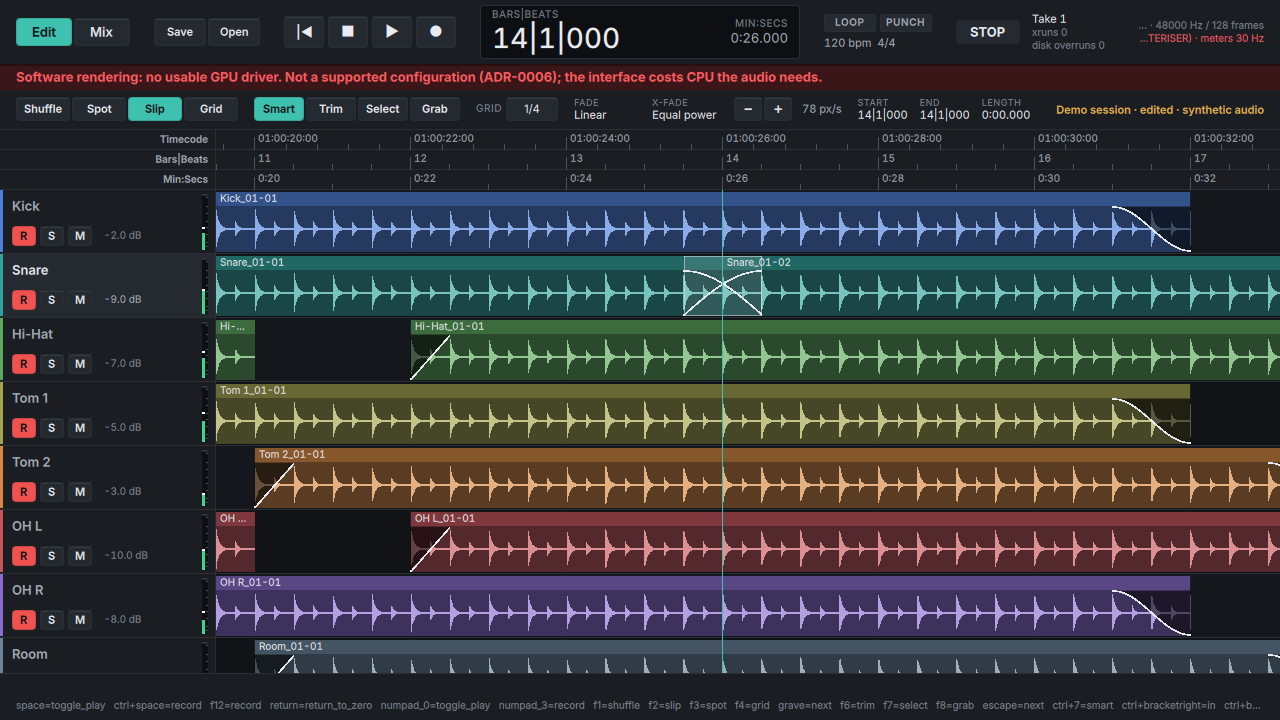
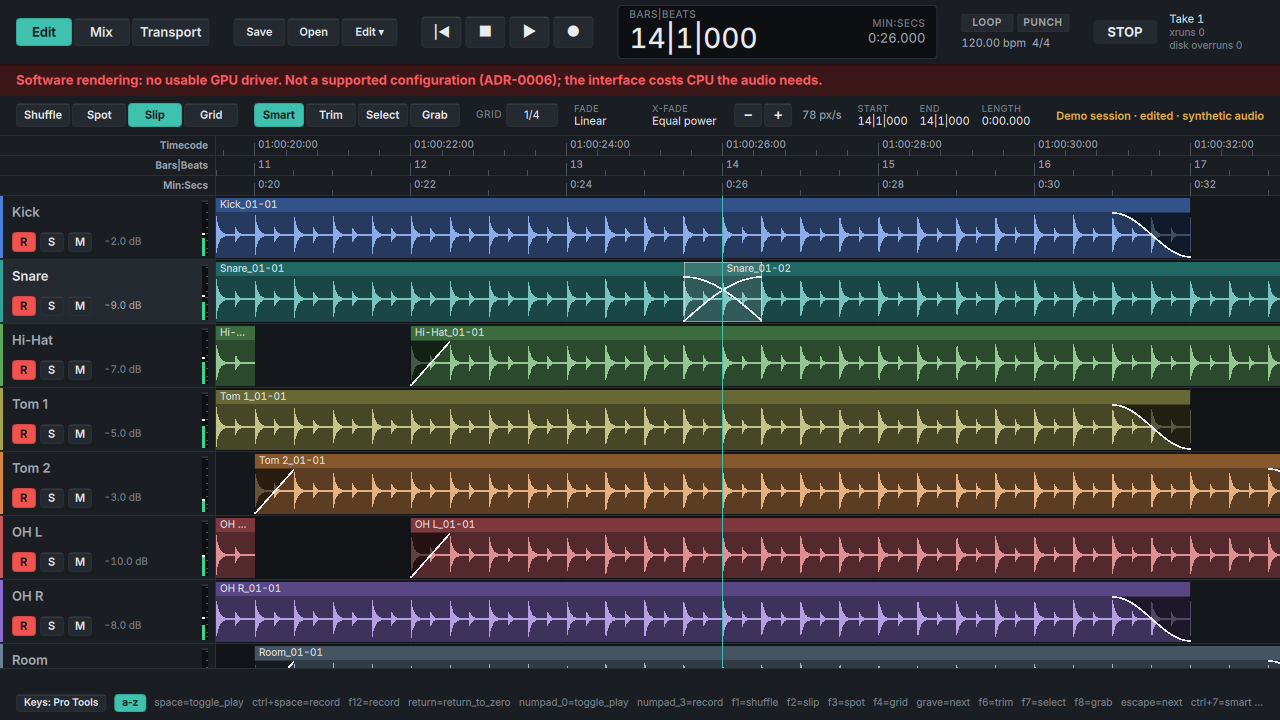
A crossfade drops the fades at its cut, as Pro Tools does (Track 3 item 1)
fade_selection sends SetFade 0 for the left region's fade-out and the right
region's fade-in, then the SetCrossfade, as one "Crossfade" compound: one
update and one undo step that brings them back. Kept under the crossfade,
those fades were invisible yet came back on Clear and took room from a fade
at the regions' other ends. Hidden fades in documents from elsewhere are
still counted and named.

ui_edit test_fades_against_crossfades fails without the change.

Changed region(s): [[0.0, 0.0, 1.0, 1.0]]

diff --git a/ui/qt/tests/test_edit.cpp b/ui/qt/tests/test_edit.cpp
@@ -921,6 +921,56 @@ int test_fades_against_crossfades() {
         OK(region(doc.snapshot(), 10)->fade_in.length == kBar && valid(doc.snapshot()));
     }
 
+    // --- a crossfade made here drops the fades at its cut, as Pro Tools
+    // does: A's 1-bar fade-out and B's 1-beat fade-in go with the Pre
+    // crossfade, in one compound and one undo step that brings them back ---
+    {
+        ModelDocument doc(two_tracks());
+        const Id pl = playlist_of(doc.snapshot(), 0);
+        OK(doc.submit(MoveRegion{pl, 11, 3 * kBar, kNoId}, why));
+        OK(doc.submit(SetFade{pl, 10, FadeEnd::Out, {kBar, FadeShape::Linear}}, why));
+        OK(doc.submit(SetFade{pl, 11, FadeEnd::In, {kBeat, FadeShape::Linear}}, why));
+        EditController c(doc);
+        c.set_viewport(1000, 200);
+        const double th = c.view().track_height;
+        c.set_tool(Tool::Select);
+        OK(c.press(c.view().x_of(3 * kBar - kBeat), th / 2, why) &&
+           c.release(c.view().x_of(3 * kBar), th / 2, why));
+        const uint64_t rev = doc.snapshot().revision;
+        const std::size_t depth = doc.history().undo_depth();
+        OK(c.fade_selection(why));
+        OK(doc.snapshot().revision == rev + 1 && doc.history().undo_depth() == depth + 1);
+        OK(doc.undo_label() == "Crossfade");
+        OK(active_playlist(doc.snapshot().edit->tracks[0].get())->crossfades.size() == 1);
+        OK(region(doc.snapshot(), 10)->fade_out.length == 0);
+        OK(region(doc.snapshot(), 11)->fade_in.length == 0);
+        OK(valid(doc.snapshot()));
+        // Nothing waits under it: A's fade-in may now take the whole region
+        // up to the crossfade, which the hidden 1-bar fade-out refused.
+        c.set_insertion(3 * kBar - kBeat);
+        OK(c.fade_to_start(why));
+        OK(region(doc.snapshot(), 10)->fade_in.length == 2 * kBar - kBeat);
+        OK(c.undo(why));
+        // Clear brings back nothing.
+        OK(c.press(c.view().x_of(3 * kBar - kBeat), th / 2, why) &&
+           c.release(c.view().x_of(3 * kBar), th / 2, why));
+        OK(c.clear(why));
+        OK(active_playlist(doc.snapshot().edit->tracks[0].get())->crossfades.empty());
+        OK(region(doc.snapshot(), 10)->fade_out.length == 0);
+        OK(region(doc.snapshot(), 11)->fade_in.length == 0);
+        // Undo of the clear, then of the crossfade: both fades come back.
+        OK(c.undo(why) && c.undo(why));
+        OK(active_playlist(doc.snapshot().edit->tracks[0].get())->crossfades.empty());
+        OK(region(doc.snapshot(), 10)->fade_out.length == kBar);
+        OK(region(doc.snapshot(), 11)->fade_in.length == kBeat);
+        // With no fade at the cut it is still the one SetCrossfade.
+        OK(doc.submit(SetFade{pl, 10, FadeEnd::Out, Fade{}}, why));
+        OK(doc.submit(SetFade{pl, 11, FadeEnd::In, Fade{}}, why));
+        OK(c.press(c.view().x_of(3 * kBar - kBeat), th / 2, why) &&
+           c.release(c.view().x_of(3 * kBar), th / 2, why));
+        OK(c.fade_selection(why) && doc.undo_label() == "SetCrossfade");
+    }
+
     // --- the overlap: a crossfade into the region's own fade at the other end ---
     {
         ModelDocument doc(two_tracks());

diff --git a/ui/qt/src/edit_controller.cpp b/ui/qt/src/edit_controller.cpp
@@ -1049,7 +1049,19 @@ bool EditController::fade_selection(std::string& why) {
             }
             return false;
         }
-        if (!submit(SetCrossfade{p.id, x}, why)) return false;
+        // The fades at the cut go with the crossfade, as in Pro Tools: kept
+        // under it, nobody can see them, yet they come back on Clear and
+        // still take room from a fade at the regions' other ends. One
+        // compound, so the gesture stays one undo step that brings them back.
+        std::vector<Member> members;
+        if (l.fade_out.length > 0) members.push_back(SetFade{p.id, l.id, FadeEnd::Out, Fade{}});
+        if (r.fade_in.length > 0) members.push_back(SetFade{p.id, r.id, FadeEnd::In, Fade{}});
+        if (members.empty()) {
+            if (!submit(SetCrossfade{p.id, x}, why)) return false;
+        } else {
+            members.push_back(SetCrossfade{p.id, x});
+            if (!submit_compound(std::move(members), "Crossfade", "crossfaded", why)) return false;
+        }
         sel_.region = kNoId;
         sel_.start = sel_.insertion = cut - before;
         sel_.end = cut + after;
@@ -1103,8 +1115,9 @@ bool EditController::clear_fade_at_selection(bool& done, std::string& why) {
         crossfade_extent(x, before, after);
         if (sel_.start == r->position - before && sel_.end == r->position + after) {
             done = true;
-            // Removing it brings back the fades each region keeps under it.
-            // One that would run into what is at its region's other end
+            // Removing it brings back any fade a region keeps under it: none
+            // for a crossfade made here, which drops them, but a document
+            // from elsewhere or an older build can have them. One that would run into what is at its region's other end
             // comes back shortened to meet it: the model does that
             // (RemoveCrossfade, PR #69), because the operator cannot see
             // or edit that fade while the other end is crossfaded.

diff --git a/planning/BACKLOG.md b/planning/BACKLOG.md
@@ -181,11 +181,12 @@ Against `common/model` and `FakeEngine` now; wired to M4 when it lands.
        zoom; fades; clip gain; markers.
        - [x] Fades and crossfades (`feature/ui-fades`): keys, Smart Tool
              corners, Clear; still open: a Fades dialog, batch fades.
-       - [ ] A crossfade keeps the fade it hides at that end, so clearing the
-             crossfade brings it back, and it still takes room from the
-             other end (the interface clamps and refuses against it, naming
-             it). Pro Tools drops it: crossfade plus SetFade 0, sent as one
-             `Compound` (Track 2 item 7).
+       - [x] A crossfade made in the Edit window drops the fades at its
+             cut, as Pro Tools does: SetFade 0 for each, then the
+             SetCrossfade, as one "Crossfade" `Compound`, one undo step
+             (`t3-crossfade-drops-fades`; ui_edit
+             test_fades_against_crossfades). Hidden fades in documents made
+             elsewhere or by older builds are still counted and named.
        - [x] common/model refuses a crossfade that overlaps the region's
              own fade at its other end, in `playlist_problem`; edge-moving
              edits, crossfade clears and punches shorten the fade instead,
